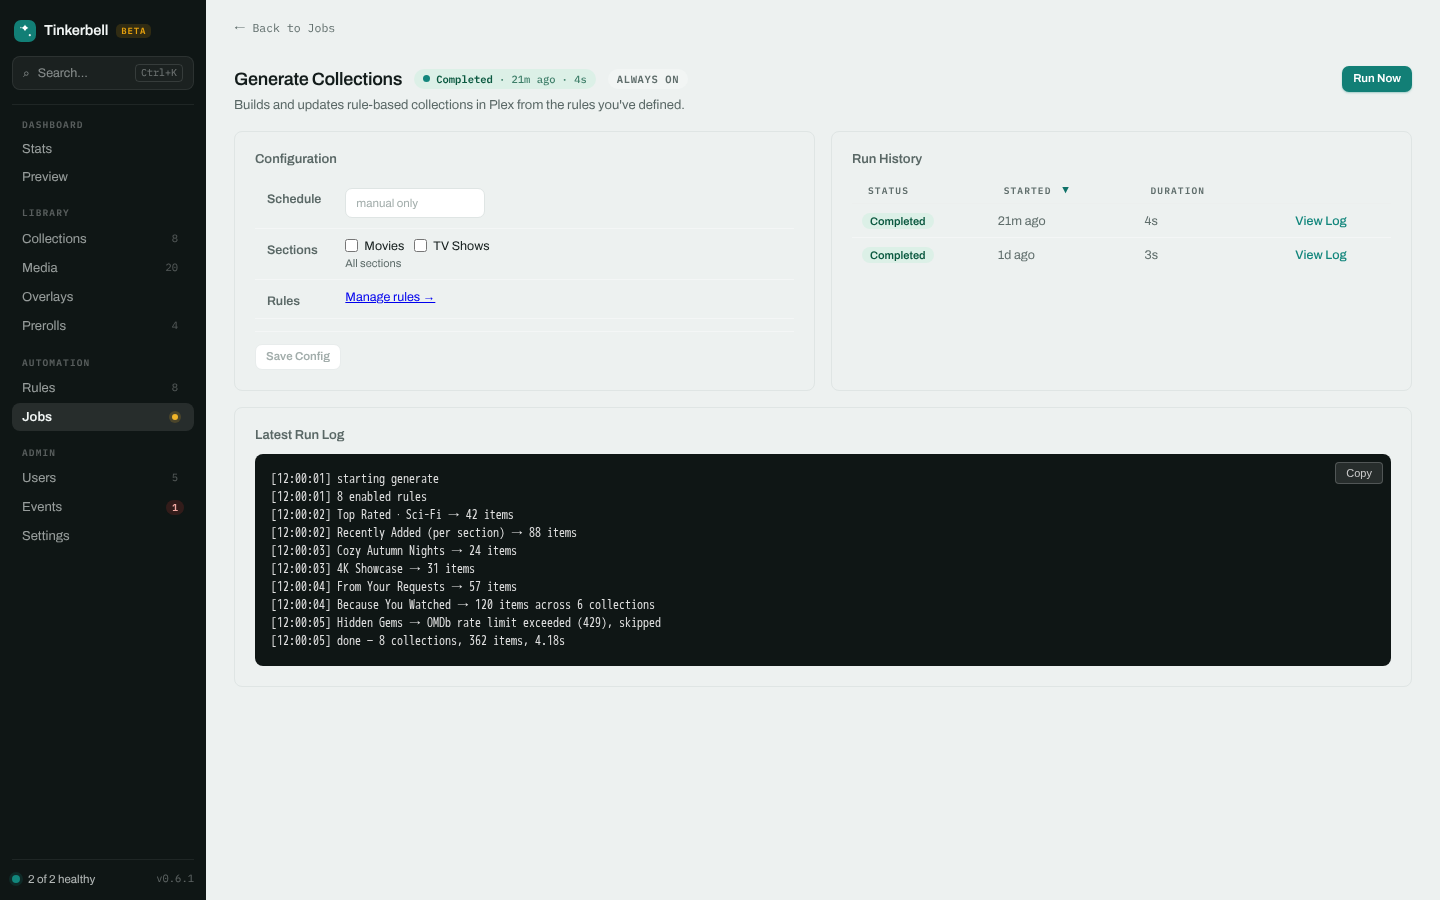
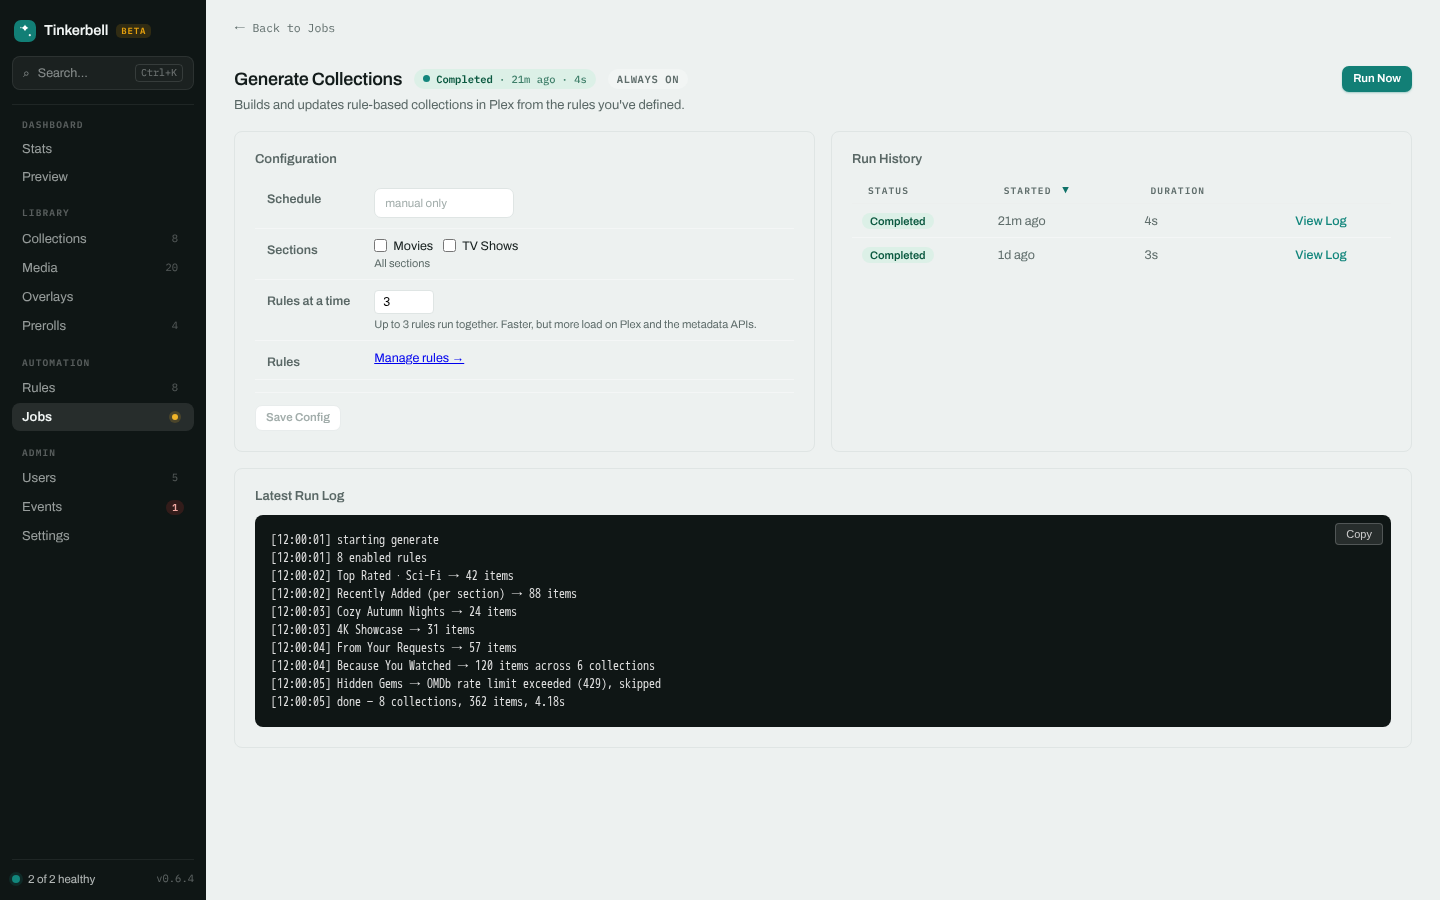
feat(jobs): expose generate rule concurrency in the admin UI

Changed region(s): [[0.1562, 0.4356, 0.9688, 0.8089], [0.2188, 0.2178, 0.5312, 0.4044], [0.1875, 0.3733, 0.2188, 0.4044]]

diff --git a/apps/web/src/pages/Jobs/GenerateJob.tsx b/apps/web/src/pages/Jobs/GenerateJob.tsx
@@ -1,5 +1,6 @@
 import { useEffect, useState } from "react";
 import { Link } from "react-router-dom";
+import { RULE_CONCURRENCY_DEFAULT, RULE_CONCURRENCY_MAX } from "@tinkerbell/contracts";
 import { trpc } from "#/trpc";
 import { useJobActions } from "./shared/useJobActions";
 import JobPageShell from "./shared/JobPageShell";
@@ -14,11 +15,13 @@ export default function GenerateJob({ job }: JobPageProps) {
   const utils = trpc.useUtils();
   const actions = useJobActions(job);
   const [sections, setSections] = useState<string[]>([]);
+  const [concurrency, setConcurrency] = useState<number>(RULE_CONCURRENCY_DEFAULT);
   const [dirty, setDirty] = useState(false);
 
   useEffect(() => {
-    const cfg = (job.config ?? {}) as { sections?: string[] };
+    const cfg = (job.config ?? {}) as { sections?: string[]; ruleConcurrency?: number };
     setSections(cfg.sections ?? []);
+    setConcurrency(cfg.ruleConcurrency ?? RULE_CONCURRENCY_DEFAULT);
     setDirty(false);
   }, [job.config]);
 
@@ -29,6 +32,8 @@ export default function GenerateJob({ job }: JobPageProps) {
   const handleSave = () => {
     const config: Record<string, unknown> = {};
     if (sections.length > 0) config.sections = sections;
+    // Left unset at the default, so the job keeps following it if it changes.
+    if (concurrency !== RULE_CONCURRENCY_DEFAULT) config.ruleConcurrency = concurrency;
     updateMutation.mutate({ jobId: job.id, config }, { onSuccess: () => setDirty(false) });
   };
 
@@ -46,6 +51,28 @@ export default function GenerateJob({ job }: JobPageProps) {
               },
             }}
           />
+          <tr>
+            <td className={styles.fieldLabel}>Rules at a time</td>
+            <td>
+              <input
+                type="number"
+                className={styles.configNumberInput}
+                min={1}
+                max={RULE_CONCURRENCY_MAX}
+                value={concurrency}
+                onChange={(e) => {
+                  const next = parseInt(e.target.value, 10) || RULE_CONCURRENCY_DEFAULT;
+                  setConcurrency(Math.max(1, Math.min(RULE_CONCURRENCY_MAX, next)));
+                  setDirty(true);
+                }}
+              />
+              <div className={styles.fieldHelp}>
+                {concurrency === 1
+                  ? "One rule at a time — slowest, gentlest on your Plex server"
+                  : `Up to ${concurrency} rules run together. Faster, but more load on Plex and the metadata APIs.`}
+              </div>
+            </td>
+          </tr>
           <tr>
             <td className={styles.fieldLabel}>Rules</td>
             <td>

diff --git a/packages/jobs/src/commands/generate/index.ts b/packages/jobs/src/commands/generate/index.ts
@@ -16,19 +16,12 @@ import { runHandlerWithCommits } from "./dispatch.ts";
 import { resolveArrAdds } from "./arr.ts";
 import { llmUnavailableReason } from "./ai/llm.ts";
 import { withItemCache } from "./item-cache.ts";
+import { RULE_CONCURRENCY_DEFAULT } from "@tinkerbell/contracts";
 
 export type { TestRuleResult, TestCollectionPreview } from "./preview.ts";
 export { testRule } from "./preview.ts";
 
 const runRuleLog = createLogger("run-rule");
-
-/**
- * Rules in flight at once. Independent of each other, but they share one
- * Plex server (and, through it, one home NAS's disks) plus rate-limited
- * external APIs, so this stays deliberately low. Override per job with
- * `ruleConcurrency`.
- */
-const RULE_CONCURRENCY_DEFAULT = 3;
 
 /**
  * Batch entry point: run every enabled rule against the configured Plex

diff --git a/packages/jobs/src/commands/generate/item-cache.ts b/packages/jobs/src/commands/generate/item-cache.ts
@@ -25,12 +25,14 @@ export function withItemCache(client: PlexClient): PlexClient {
   };
 }
 
-function memoizeBySection<T>(fetch: (sectionId: string) => Promise<T>): (sectionId: string) => Promise<T> {
+// `walk`, not `fetch`: shadowing the global trips `scripts/check-fetch.mjs`,
+// which reads `fetch(…)` here as an un-deadlined HTTP call.
+function memoizeBySection<T>(walk: (sectionId: string) => Promise<T>): (sectionId: string) => Promise<T> {
   const bySection = new Map<string, Promise<T>>();
   return (sectionId: string) => {
     const hit = bySection.get(sectionId);
     if (hit) return hit;
-    const pending = fetch(sectionId).catch((err: unknown) => {
+    const pending = walk(sectionId).catch((err: unknown) => {
       bySection.delete(sectionId);
       throw err;
     });

diff --git a/packages/core/src/job-context.ts b/packages/core/src/job-context.ts
@@ -1,4 +1,5 @@
 import { z } from "zod";
+import { RULE_CONCURRENCY_MAX } from "@tinkerbell/contracts";
 
 /**
  * Per-job resumable state.
@@ -47,7 +48,7 @@ export const generateJobConfigSchema = commonJobConfigSchema.extend({
    * one Plex server and the external APIs behind it, so this is capped low
    * and defaults conservatively — see `RULE_CONCURRENCY_DEFAULT`.
    */
-  ruleConcurrency: z.number().int().min(1).max(8).optional(),
+  ruleConcurrency: z.number().int().min(1).max(RULE_CONCURRENCY_MAX).optional(),
 });
 export type GenerateJobConfig = z.infer<typeof generateJobConfigSchema>;
 

diff --git a/packages/contracts/src/index.ts b/packages/contracts/src/index.ts
@@ -2,6 +2,15 @@
 // Web should never import directly from server-side packages — only from here
 // or from @tinkerbell/trpc (for AppRouter).
 
+/**
+ * Bounds for the generate job's `ruleConcurrency` setting. They live here
+ * because both sides need them and neither owns them: the schema in
+ * `@tinkerbell/core` enforces the max, the job applies the default, and the
+ * admin UI renders the input — and web can't import either of those.
+ */
+export const RULE_CONCURRENCY_DEFAULT = 3;
+export const RULE_CONCURRENCY_MAX = 8;
+
 export type {
   Badge,
   BadgeShape,
